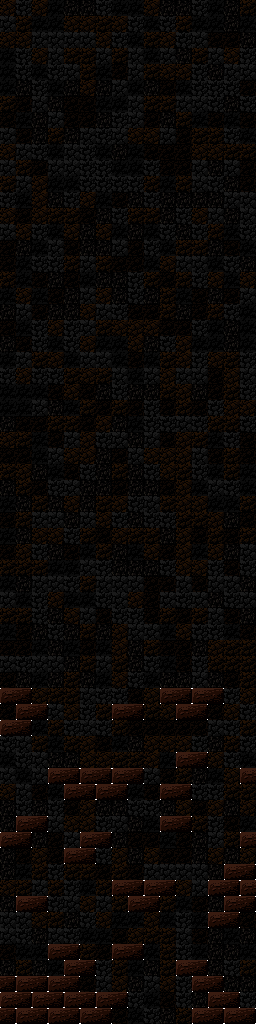
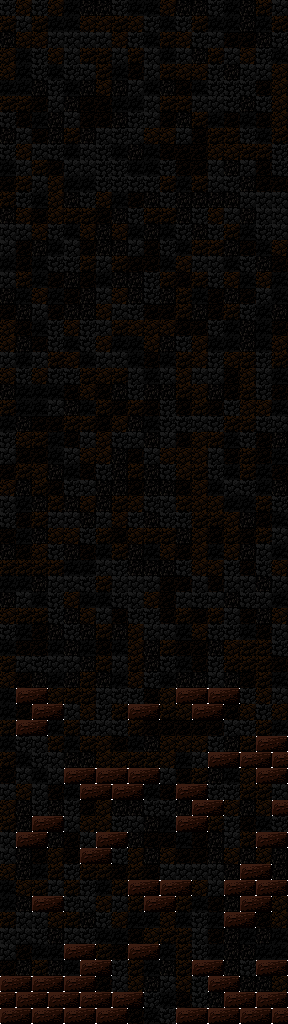
resized backdrop due to paralax effect

diff --git a/Breakout/BreakoutGame.cs b/Breakout/BreakoutGame.cs
@@ -144,7 +144,7 @@ namespace Breakout
             float x, y;
 
             // add backdrop
-            x = 0;
+            x = -TILE_SIZE;
             y = 0 - Properties.Resources.levelBackdrop.Height + Screen.HeightPixels;
             backdrop = AddGameObject(new GameObject(x, y, Properties.Resources.levelBackdrop, true));
 
@@ -228,7 +228,7 @@ namespace Breakout
             base.Physics();
 
             // paralax effect on backdrop
-            backdrop.X = TILE_SIZE / 2 - TILE_SIZE * (paddle.X + PADDLE_WIDTH / 2) / Screen.WidthPixels - 0.5f;
+            backdrop.X = -TILE_SIZE + TILE_SIZE / 2 - TILE_SIZE * (paddle.X + PADDLE_WIDTH / 2) / Screen.WidthPixels - 0.5f;
 
             // update paddle position
             if (Screen.MouseX / SCALE - PADDLE_WIDTH / 2 < 0)
